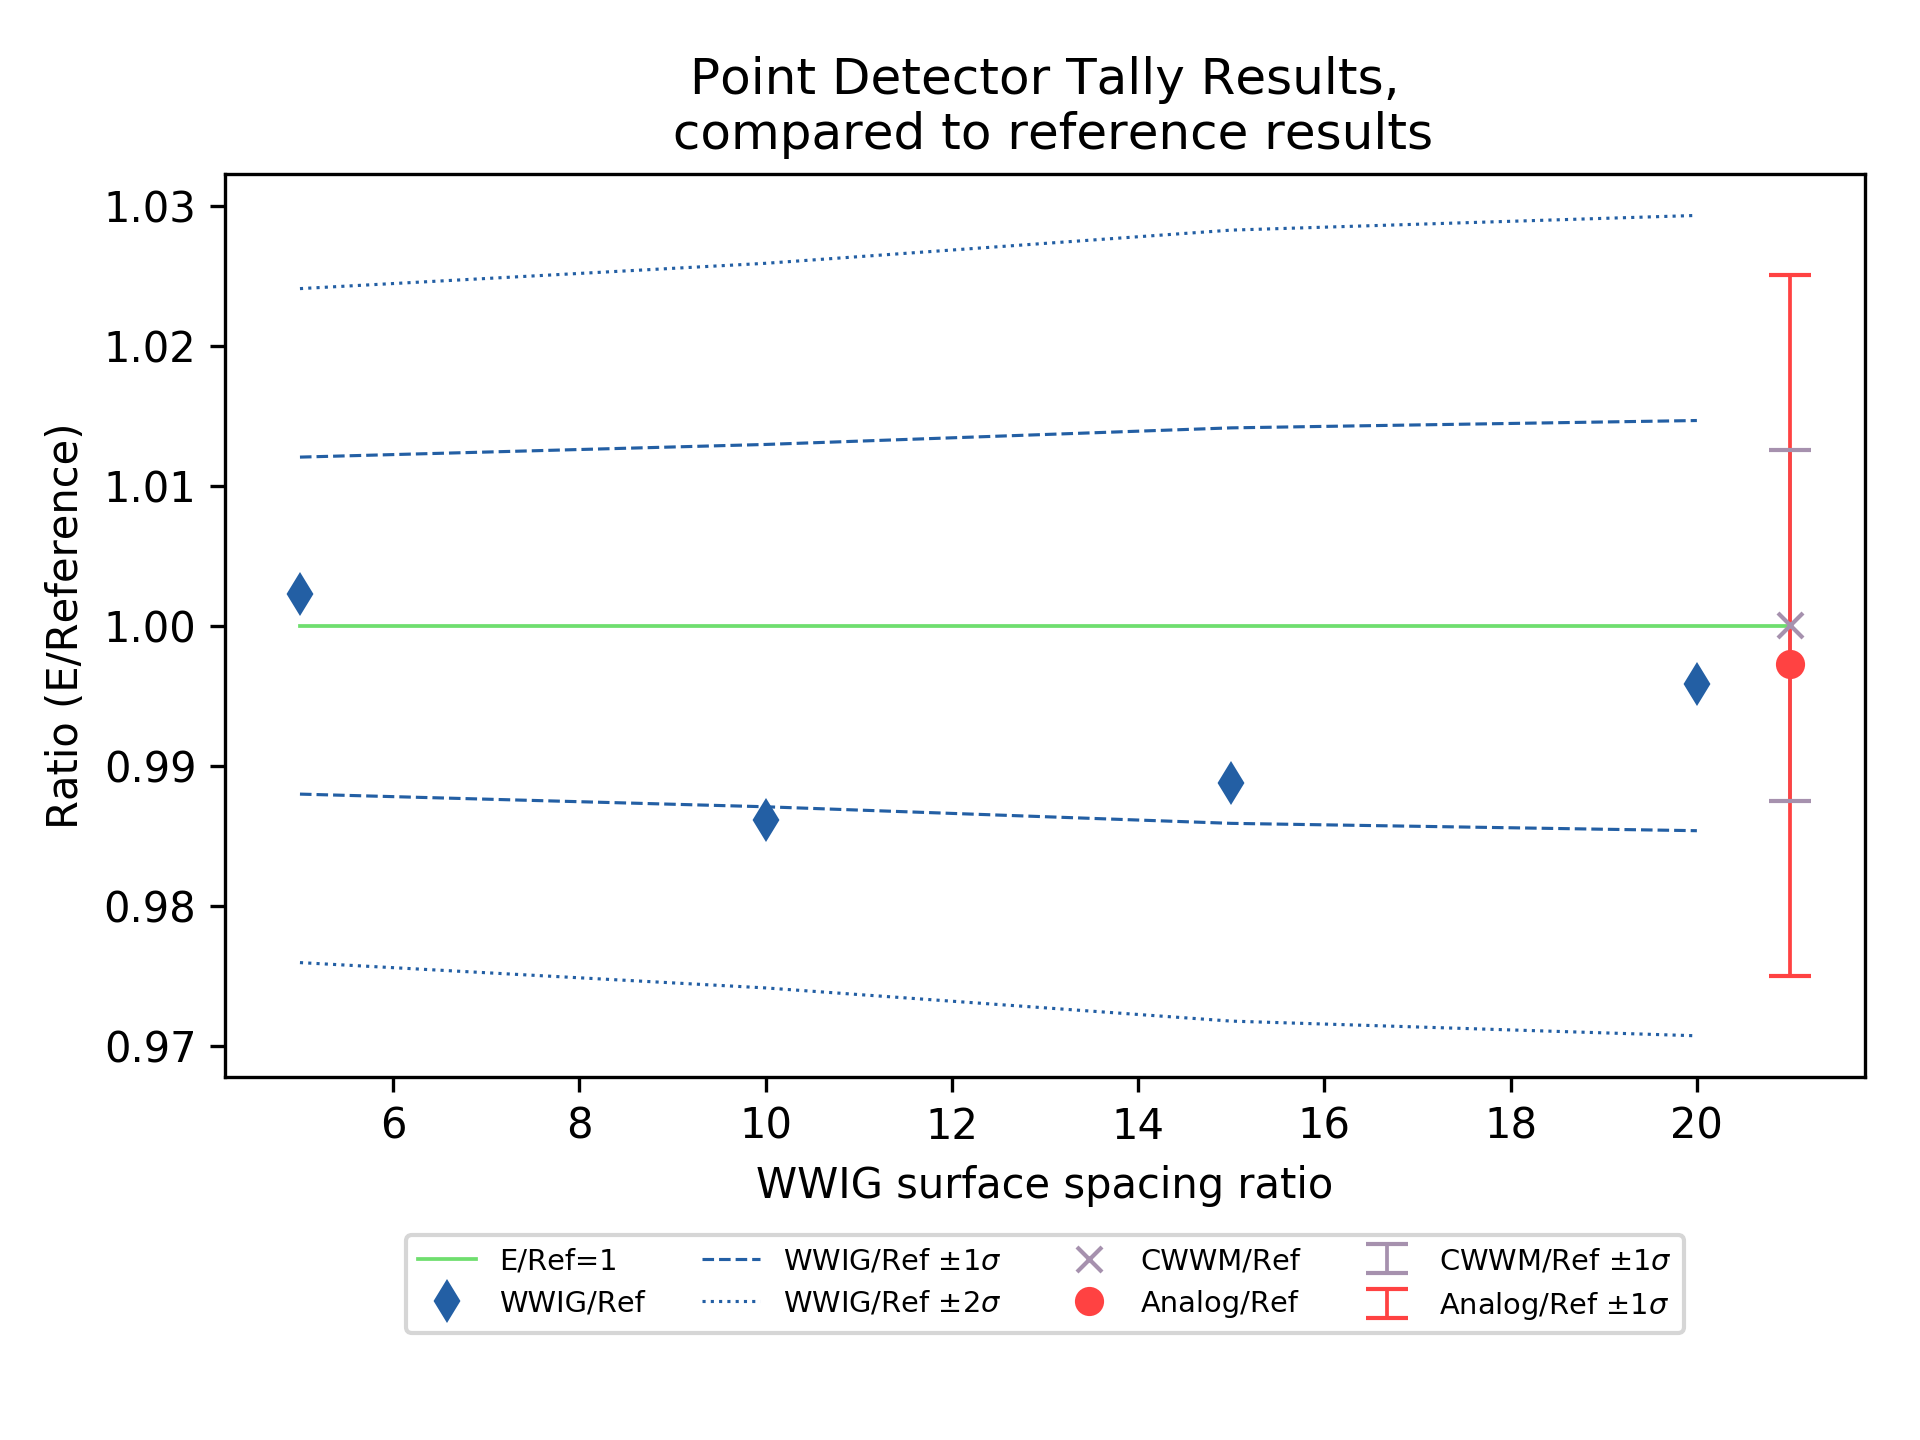
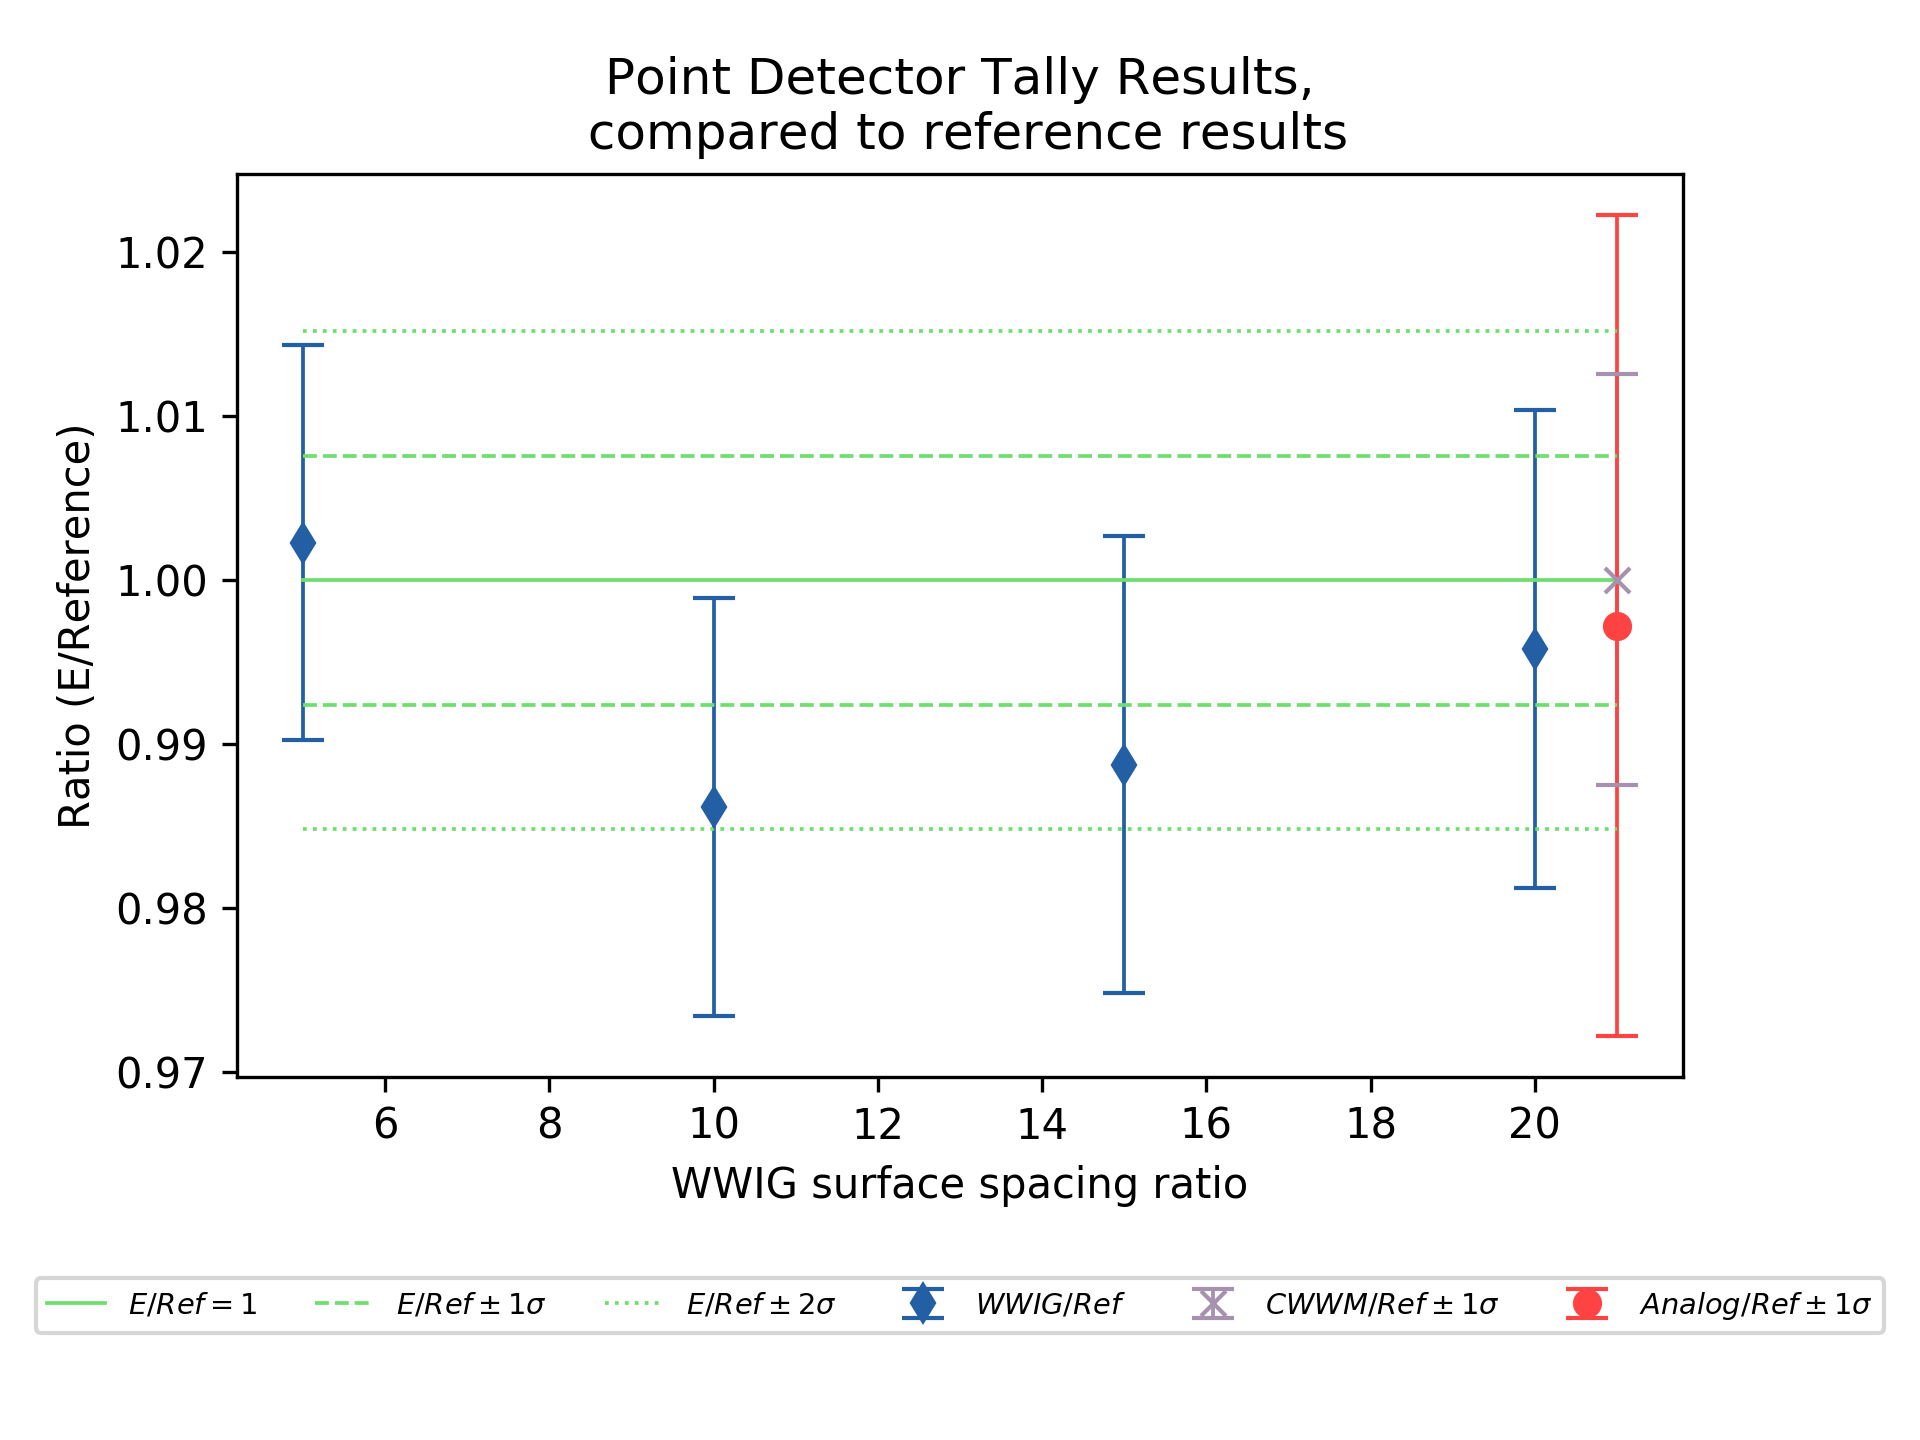
ratio plot reformatted

diff --git a/analyze/tally_15.py b/analyze/tally_15.py
@@ -104,34 +104,42 @@ ar2_upper, ar2_lower = calc_sigmas(r1, aerr, 2)
 plt.figure()
 
 # reference
-plt.plot(np.append(ratios, ext_x), np.append(r1, 1), label='E/Ref=1', ls='-', marker='', lw=.9,
+plt.plot(np.append(ratios, ext_x), np.append(r1, 1), label='$E/Ref=1$', ls='-', marker='', lw=.9,
+         color=ref_color)
+plt.plot(np.append(ratios, ext_x), ref_err + 1, label='$E/Ref \pm 1\sigma$', ls='--', marker='', lw=.9,
+         color=ref_color)
+plt.plot(np.append(ratios, ext_x), -ref_err + 1, ls='--', marker='', lw=.9,
+         color=ref_color)
+plt.plot(np.append(ratios, ext_x), 2.*ref_err + 1, label='$E/Ref \pm 2\sigma$', ls=':', marker='', lw=.9,
+         color=ref_color)
+plt.plot(np.append(ratios, ext_x), -2.*ref_err + 1, ls=':', marker='', lw=.9,
          color=ref_color)
 # wwig/reference
-plt.plot(ratios, wgratio, label='WWIG/Ref', ls='', marker='d', lw=.9,
-         color=wwig_color)
-plt.plot(ratios, wgr1_upper, label='WWIG/Ref $\pm 1\sigma$',
-         ls='--', lw=.75, color=wwig_color)
-plt.plot(ratios, wgr1_lower, label='', ls='--', lw=.75, color=wwig_color)
-plt.plot(ratios, wgr2_upper, label='WWIG/Ref $\pm 2\sigma$',
-         ls=':', lw=.75, color=wwig_color)
-plt.plot(ratios, wgr2_lower, label='', ls=':', lw=.75, color=wwig_color)
+plt.errorbar(ratios, wgratio, yerr=(wgerr * wgratio), label='$WWIG/Ref$', ls='', marker='d', lw=.9,
+             color=wwig_color, capsize=cs)
+#plt.plot(ratios, wgr1_upper, label='WWIG/Ref $\pm 1\sigma$',
+#         ls='--', lw=.75, color=wwig_color)
+#plt.plot(ratios, wgr1_lower, label='', ls='--', lw=.75, color=wwig_color)
+#plt.plot(ratios, wgr2_upper, label='WWIG/Ref $\pm 2\sigma$',
+#         ls=':', lw=.75, color=wwig_color)
+#plt.plot(ratios, wgr2_lower, label='', ls=':', lw=.75, color=wwig_color)
 # wwinp/reference
-plt.errorbar(ext_x, [1], yerr=(wpratio * wperr),
-             label='CWWM/Ref $\pm 1\sigma$', ls='', marker='', lw=.9,
+plt.errorbar(ext_x, wpratio, yerr=(wpratio * wperr),
+             label='$CWWM/Ref \pm 1\sigma$', ls='', marker='x', lw=.9,
              capsize=cs, color=wwinp_color)
-plt.plot(ext_x, wpratio, label='CWWM/Ref', ls='',
-         marker='x', lw=.9, color=wwinp_color)
+#plt.plot(ext_x, wpratio, label='CWWM/Ref', ls='',
+#         marker='x', lw=.9, color=wwinp_color)
 # analog/reference
-plt.errorbar(ext_x, [1], yerr=(aratio * aerr),
-             label='Analog/Ref $\pm 1\sigma$', ls='', marker='', lw=.9,
+plt.errorbar(ext_x, aratio, yerr=(aratio * aerr),
+             label='$Analog/Ref \pm 1\sigma$', ls='', marker='o', lw=.9,
              capsize=cs, color=analog_color)
-plt.plot(ext_x, aratio, label='Analog/Ref', ls='', marker='o', lw=.9,
-         color=analog_color)
+#plt.plot(ext_x, aratio, label='Analog/Ref', ls='', marker='o', lw=.9,
+#         color=analog_color)
 
 plt.xlabel('WWIG surface spacing ratio')
 plt.ylabel('Ratio (E/Reference)')
 plt.title('Point Detector Tally Results,\n compared to reference results')
-plt.legend(bbox_to_anchor=(0.5, -.3), loc='lower center', ncol=4,
+plt.legend(bbox_to_anchor=(0.5, -.3), loc='lower center', ncol=6,
            fontsize='x-small')
 plt.tight_layout()
 
@@ -153,8 +161,6 @@ plt.title('Point Detector Tally Relative Error')
 plt.legend(bbox_to_anchor=(0.5, -.21), loc='lower center', ncol=4, fontsize='x-small')
 plt.tight_layout()
 plt.savefig('tally15_error.png', dpi=dpi)
-
-
 
 ## calculate p-value
 # [mean, error, sample size]
@@ -193,4 +199,3 @@ for ratio, tt_res in wwig_ref_tt.items():
     #tt.print_rej_summary(tt_res, .05, 0, verbose=2)
 
 plt.show()
-
